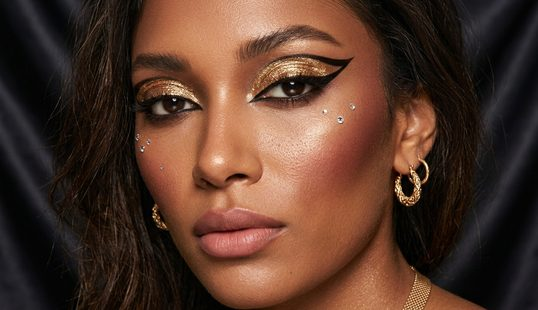
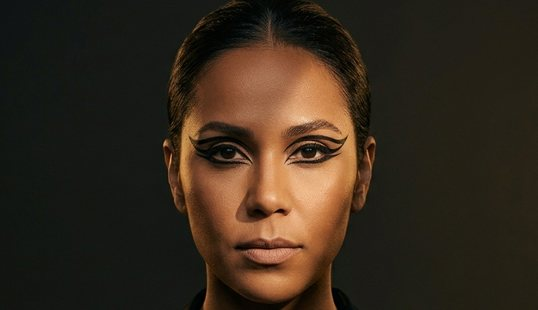
Mise a jour GlamBook

diff --git a/index.html b/index.html
@@ -14,8 +14,8 @@
   <meta property="og:description" content="Trouvez et réservez une maquilleuse professionnelle près de chez vous. Portfolios, avis clients, réservation en ligne sécurisée."/>
   <meta property="og:url" content="https://glambook-pi.vercel.app/"/>
   <meta property="og:image" content="https://glambook-pi.vercel.app/img/hero.jpg"/>
-  <meta property="og:image:width" content="1200"/>
-  <meta property="og:image:height" content="618"/>
+  <meta property="og:image:width" content="1376"/>
+  <meta property="og:image:height" content="768"/>
   <meta property="og:image:alt" content="Maquilleuse professionnelle au travail"/>
   <meta property="og:locale" content="fr_FR"/>
   <!-- Twitter Card -->
@@ -76,7 +76,7 @@
 
     /* ── Hero : la photo plein cadre, le titre en capitales serrées ── */
     .hero { position: relative; min-height: 600px; display: flex; align-items: flex-end; overflow: hidden; }
-    .hero > img { position: absolute; inset: 0; width: 100%; height: 100%; object-fit: cover; object-position: 70% center; }
+    .hero > img { position: absolute; inset: 0; width: 100%; height: 100%; object-fit: cover; object-position: 60% 35%; }
     .hero::before { content: ''; position: absolute; inset: 0; background: linear-gradient(90deg, rgba(14,14,16,.94) 0%, rgba(14,14,16,.62) 48%, rgba(14,14,16,.05) 100%); }
     .hero::after { content: ''; position: absolute; inset: 0; background: linear-gradient(to top, var(--gb-ground) 0%, rgba(14,14,16,0) 32%); }
     .hero .wrap { position: relative; z-index: 1; width: 100%; padding-bottom: 64px; }
@@ -129,7 +129,7 @@
     .pro-text p { color: var(--gb-ink-2); margin: 0; max-width: 46ch; line-height: 1.6; }
     .pro-perks { list-style: none; margin: 0; padding: 0; display: flex; flex-wrap: wrap; gap: 8px 22px; font-size: .88rem; color: var(--gb-ink-2); }
     .pro-perks li::before { content: '— '; color: var(--gb-gold); }
-    .pro img { width: 100%; height: 100%; object-fit: cover; min-height: 320px; }
+    .pro img { width: 100%; height: 100%; object-fit: cover; object-position: 72% center; min-height: 320px; }
 
     /* ── Espace personnel (connectée) ── */
     .home-me { padding-top: 40px; }
@@ -173,7 +173,7 @@
     @media (max-width: 600px) {
       .wrap { padding: 0 16px; }
       .hero { min-height: 600px; }
-      .hero > img { object-position: 60% 15%; height: 72%; -webkit-mask-image: linear-gradient(#000 70%, transparent); mask-image: linear-gradient(#000 70%, transparent); }
+      .hero > img { object-position: 80% 20%; height: 72%; -webkit-mask-image: linear-gradient(#000 70%, transparent); mask-image: linear-gradient(#000 70%, transparent); }
       .hero::before { background: linear-gradient(rgba(14,14,16,0) 20%, rgba(14,14,16,.85) 60%, var(--gb-ground) 72%); }
       .hero .eyebrow .far { display: none; }
       .rule-head .aside { display: none; }

diff --git a/sw.js b/sw.js
@@ -1,4 +1,4 @@
-const CACHE_NAME = 'glambook-v18';
+const CACHE_NAME = 'glambook-v19';
 const ASSETS = [
   '/',
   '/index.html',

diff --git a/ETAT_PROJET_GLAMBOOK.md b/ETAT_PROJET_GLAMBOOK.md
@@ -305,5 +305,6 @@ Direction E choisie par Fernand (mélange de A « Sombre Luxe » et C « Éditor
 - **Recherche** : grand titre, occasions en onglets, filtres en ligne, même carte que l'accueil.
 - **Fiche maquilleuse** : la couverture (ou, à défaut, la première photo du portfolio) en plein cadre avec le nom en capitales ; présentation en italique ; portfolio en mosaïque ; avis en citations. Sur mobile, barre fixe « Écrire | Demander un devis / Réserver ». La couleur choisie par la maquilleuse ne teinte plus que le surtitre et la sélection (`--artist-accent`).
 - Tableau de bord, messages, inscription, signature : rose remplacé par l'or / le champagne, logos alignés.
-- Cache du service worker : `glambook-v18`.
+- Cache du service worker : `glambook-v19`.
 - Photos (8 octobre) : cadre gris retiré de `cat-mariage.jpg` et `cat-soiree.jpg` (restes du découpage d'une planche) ; l'accueil se partage avec `hero.jpg` en grand format. `portrait.jpg` et `cat-toutes.jpg` ne sont plus utilisées.
+- Nouvelles photos générées par Fernand (8 octobre, soir) : `hero.jpg` (maquilleuse de face, cliente de profil, moitié gauche noire pour le titre, 1376 × 768), `bandeau-pro.jpg` (maquilleuse qui prépare son matériel), `cat-shooting.jpg` (eye-liner graphique sans paillettes, recadrée sur les yeux). Les anciennes sont gardées hors du site. À terme : une photo d'accueil d'au moins 2 400 px de large pour les grands écrans.
